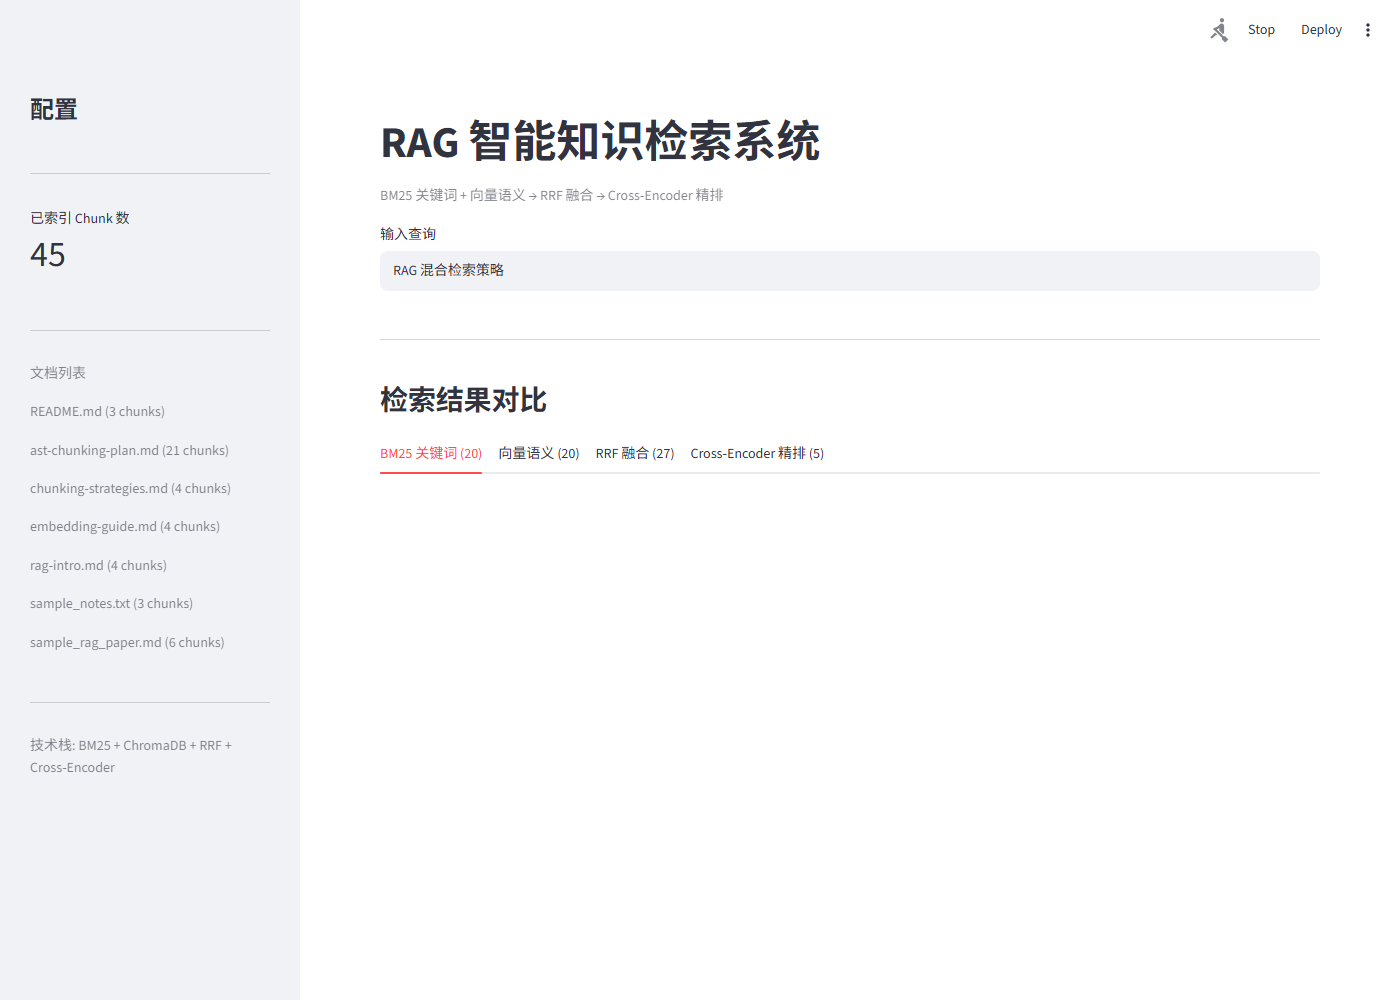
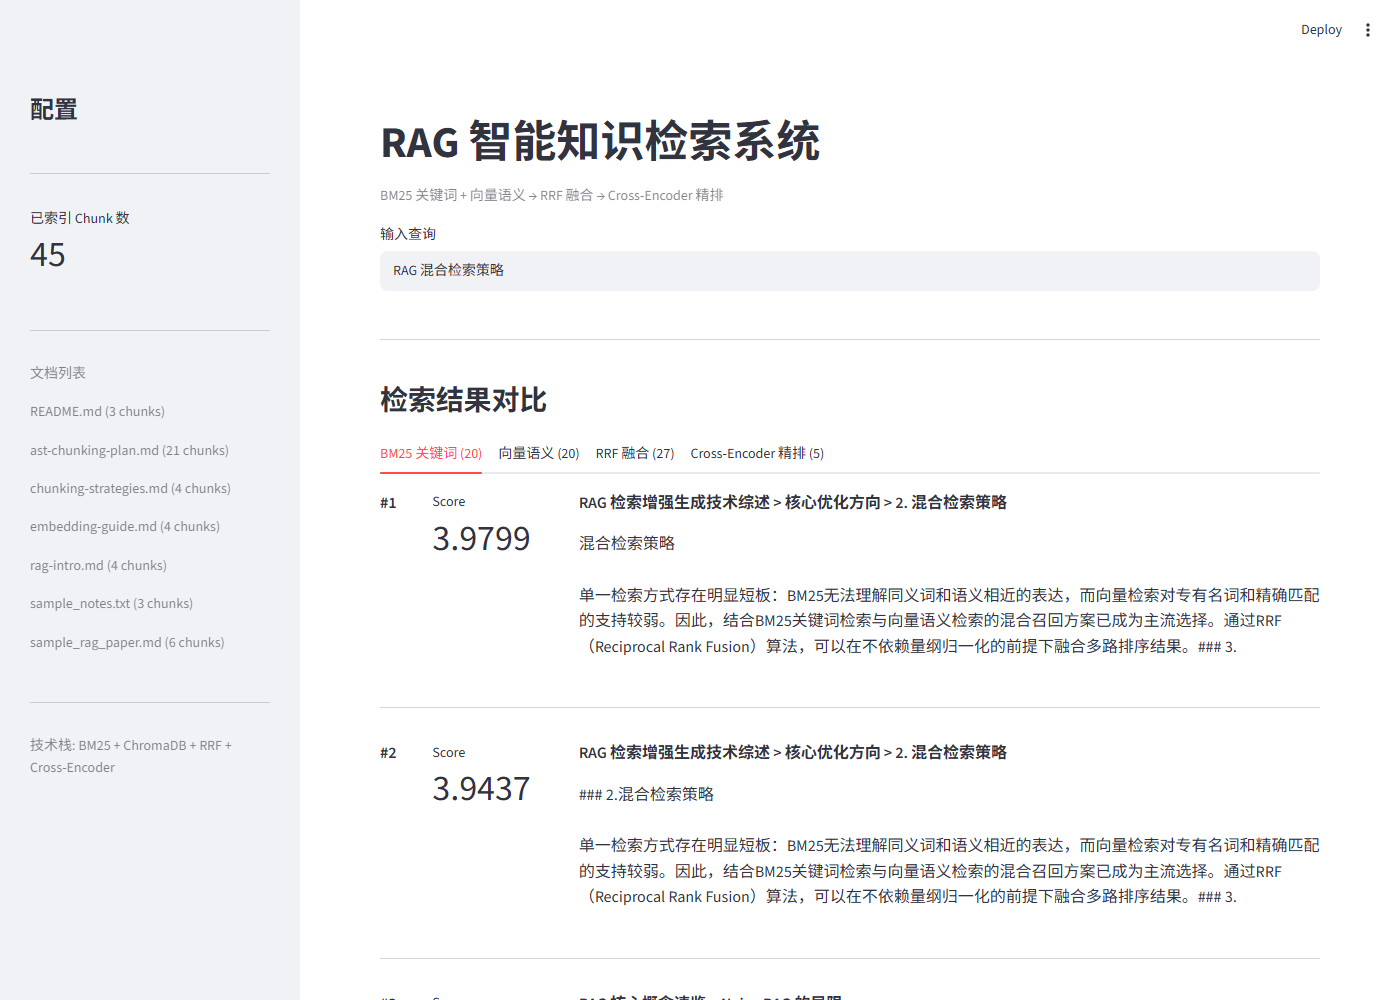
fix: 修复 Streamlit 界面四 Tab 渲染报错，重截无报错截图
- app.py: _render_results 定义上移到调用前，修复 NameError
- README.md: 重写知识图谱价值定位措辞，去掉防御式辩解
- screenshots/: 覆盖旧报错图，全部为真实运行画面
- capture_ui.py: 增加异常检测，出错即停不截报错图

diff --git a/capture_ui.py b/capture_ui.py
@@ -1,43 +1,69 @@
-"""Capture Streamlit UI screenshots for README showcase."""
+"""用 Playwright 重新截取 RAG 界面全量截图（覆盖旧的报错图）。
+
+前置：streamlit run app.py --server.port 8510 已在运行。
+输出：screenshots/ui-initial.png / ui-query-results.png / ui-tab-{BM25,vector,RRF,Cross-Encoder}.png
+"""
 import time
+from pathlib import Path
 from playwright.sync_api import sync_playwright
 
 BASE = "http://localhost:8510"
-OUT = "screenshots"
-QUERY = "RAG 混合检索策略"  # a query with known good matches in docs/
+OUT = Path("screenshots")
+OUT.mkdir(exist_ok=True)
+QUERY = "RAG 混合检索策略"
+
+TABS = [
+    ("BM25 关键词", "ui-tab-BM25.png"),
+    ("向量语义", "ui-tab-vector.png"),
+    ("RRF 融合", "ui-tab-RRF.png"),
+    ("Cross-Encoder 精排", "ui-tab-Cross-Encoder.png"),
+]
+
 
 def click_tab(page, name_fragment):
-    """Click a tab by its text fragment."""
     try:
-        page.get_by_role("tab", name=name_fragment).first.click(timeout=5000)
-        time.sleep(1.2)
+        page.get_by_role("tab", name=name_fragment).first.click(timeout=8000)
+        time.sleep(1.5)
         return True
-    except Exception:
+    except Exception as e:
+        print(f"  ! 点击 Tab '{name_fragment}' 失败: {e}")
         return False
+
 
 with sync_playwright() as p:
     browser = p.chromium.launch(executable_path=r"C:\Program Files\Google\Chrome\Application\chrome.exe")
     ctx = browser.new_context(viewport={"width": 1400, "height": 1000})
     page = ctx.new_page()
-    page.goto(BASE, wait_until="networkidle")
-    time.sleep(15)  # let pipeline build & render
+    page.goto(BASE, wait_until="networkidle", timeout=90000)
+    page.wait_for_selector("input", timeout=60000)
+    time.sleep(3)
 
-    # 1) initial empty state
-    page.screenshot(path=f"{OUT}/ui-initial.png", full_page=False)
+    # 1) 空态
+    page.screenshot(path=str(OUT / "ui-initial.png"))
+    print("captured ui-initial.png")
 
-    # 2) submit a real query
-    box = page.locator("input[type='text']").first
+    # 2) 填查询并提交
+    box = page.locator("input[type=text]").first
     box.fill(QUERY)
     box.press("Enter")
-    time.sleep(4)  # wait for retrieval + CE rerank
+    time.sleep(6)
 
-    page.screenshot(path=f"{OUT}/ui-query-results.png", full_page=False)
+    # 出错即停，避免截到报错图
+    err = page.locator('[data-testid="stException"]')
+    if err.count() > 0:
+        print("!! 页面出现异常面板，中止：")
+        print(page.locator('[data-testid="stException"]').first.inner_text()[:500])
+        browser.close()
+        raise SystemExit(1)
 
-    # 3) four stage tabs (click each, capture)
-    tabs = ["BM25", "向量语义", "RRF", "Cross-Encoder"]
-    for t in tabs:
-        if click_tab(page, t):
-            page.screenshot(path=f"{OUT}/ui-tab-{t}.png", full_page=False)
+    page.screenshot(path=str(OUT / "ui-query-results.png"))
+    print("captured ui-query-results.png")
+
+    # 3) 四个阶段 Tab
+    for name, filename in TABS:
+        if click_tab(page, name):
+            page.screenshot(path=str(OUT / filename))
+            print(f"captured {filename}")
 
     browser.close()
-print("DONE")
+print("ALL DONE")

diff --git a/app.py b/app.py
@@ -21,6 +21,35 @@ st.set_page_config(
     layout="wide",
 )
 
+
+def _render_results(results, source_label):
+    """渲染检索结果列表。"""
+    if not results:
+        st.warning("无结果")
+        return
+
+    for i, r in enumerate(results[:10]):
+        meta = r.chunk.metadata
+        heading = meta.get("heading_breadcrumb", meta.get("source", "?"))
+
+        with st.container():
+            # 排名 + 分数 + 来源
+            cols = st.columns([0.05, 0.15, 0.8])
+            with cols[0]:
+                st.markdown(f"**#{i+1}**")
+            with cols[1]:
+                if source_label in ("bm25", "vector"):
+                    st.metric("Score", f"{r.score:.4f}")
+                elif source_label == "rrf":
+                    st.metric("RRF", f"{r.score:.6f}")
+                else:
+                    st.metric("CE", f"{r.score:.4f}")
+            with cols[2]:
+                st.markdown(f"**{heading}**")
+                st.text(r.chunk.content[:300] + ("..." if len(r.chunk.content) > 300 else ""))
+
+            st.divider()
+
 # ============================================================
 # 缓存：文档加载 + 索引构建（只跑一次，后续从缓存读）
 # ============================================================
@@ -115,37 +144,3 @@ if query:
             f"RRF Score: {score_meta.get('rrf_score', 'N/A')}  |  "
             f"原始来源: {score_meta.get('original_source', 'N/A')}"
         )
-
-
-# ============================================================
-# 渲染函数
-# ============================================================
-
-
-def _render_results(results, source_label):
-    """渲染检索结果列表。"""
-    if not results:
-        st.warning("无结果")
-        return
-
-    for i, r in enumerate(results[:10]):
-        meta = r.chunk.metadata
-        heading = meta.get("heading_breadcrumb", meta.get("source", "?"))
-
-        with st.container():
-            # 排名 + 分数 + 来源
-            cols = st.columns([0.05, 0.15, 0.8])
-            with cols[0]:
-                st.markdown(f"**#{i+1}**")
-            with cols[1]:
-                if source_label in ("bm25", "vector"):
-                    st.metric("Score", f"{r.score:.4f}")
-                elif source_label == "rrf":
-                    st.metric("RRF", f"{r.score:.6f}")
-                else:
-                    st.metric("CE", f"{r.score:.4f}")
-            with cols[2]:
-                st.markdown(f"**{heading}**")
-                st.text(r.chunk.content[:300] + ("..." if len(r.chunk.content) > 300 else ""))
-
-            st.divider()

diff --git a/README.md b/README.md
@@ -138,7 +138,7 @@ mcp-rag-hub/
 - **CE 精排把 Precision@5 从 0.49 提升到 0.56**：精排的价值在于把最相关的文档顶到最前；MRR 略低于 RRF 系个别 case 被重排出 Top-5 所致，属已知权衡而非普遍问题
 - **延迟剖析（本地 CPU）**：全链路均值 395ms，其中 CE 精排 373ms 占 94%——这正是采用两阶段架构、将精排限制在 Top-20 候选内的原因（详见 `experiments/latency_profile.json`）
 
-**知识图谱的价值定位：** 作为可选实验功能（`ENABLE_KG` 开关），展示 LLM 三元组抽取 + 有向知识图谱构建 + 多路融合设计。通过对照实验发现：在小规模同主题语料上，KG 路因实体区分度不足而不提升指标（清理噪声文档后 KG Hit@5 从 33% 升至 100%，但 MRR 天花板仍低），故默认关闭——这是数据驱动的架构决策，不是妥协。完整归因过程见 [KG 消融实验笔记](journal/2026-08-04-kg-ablation-notes.md)。
+**知识图谱检索（可选实验）**：用 LLM 抽取实体三元组、构建有向知识图谱，作为混合检索的一路补充。`ENABLE_KG` 开关控制。当前在**小规模、同主题语料**上未带来检索提升（独立评估见 [KG 消融实验笔记](journal/2026-08-04-kg-ablation-notes.md)），因此默认关闭——它展示的是「多路召回设计」的扩展能力，而非当前主推的检索路线。
 
 ## 技术栈
 
